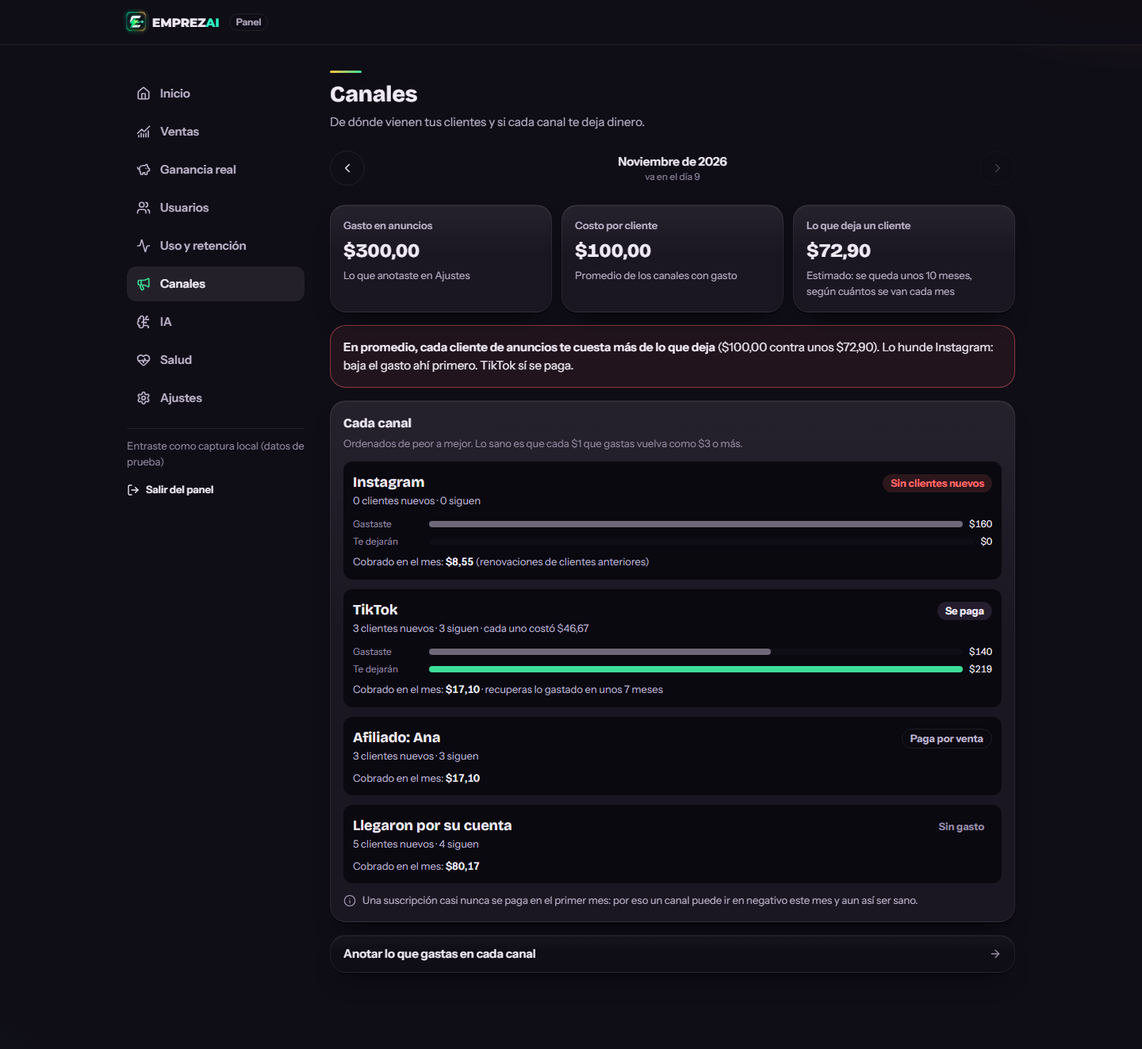
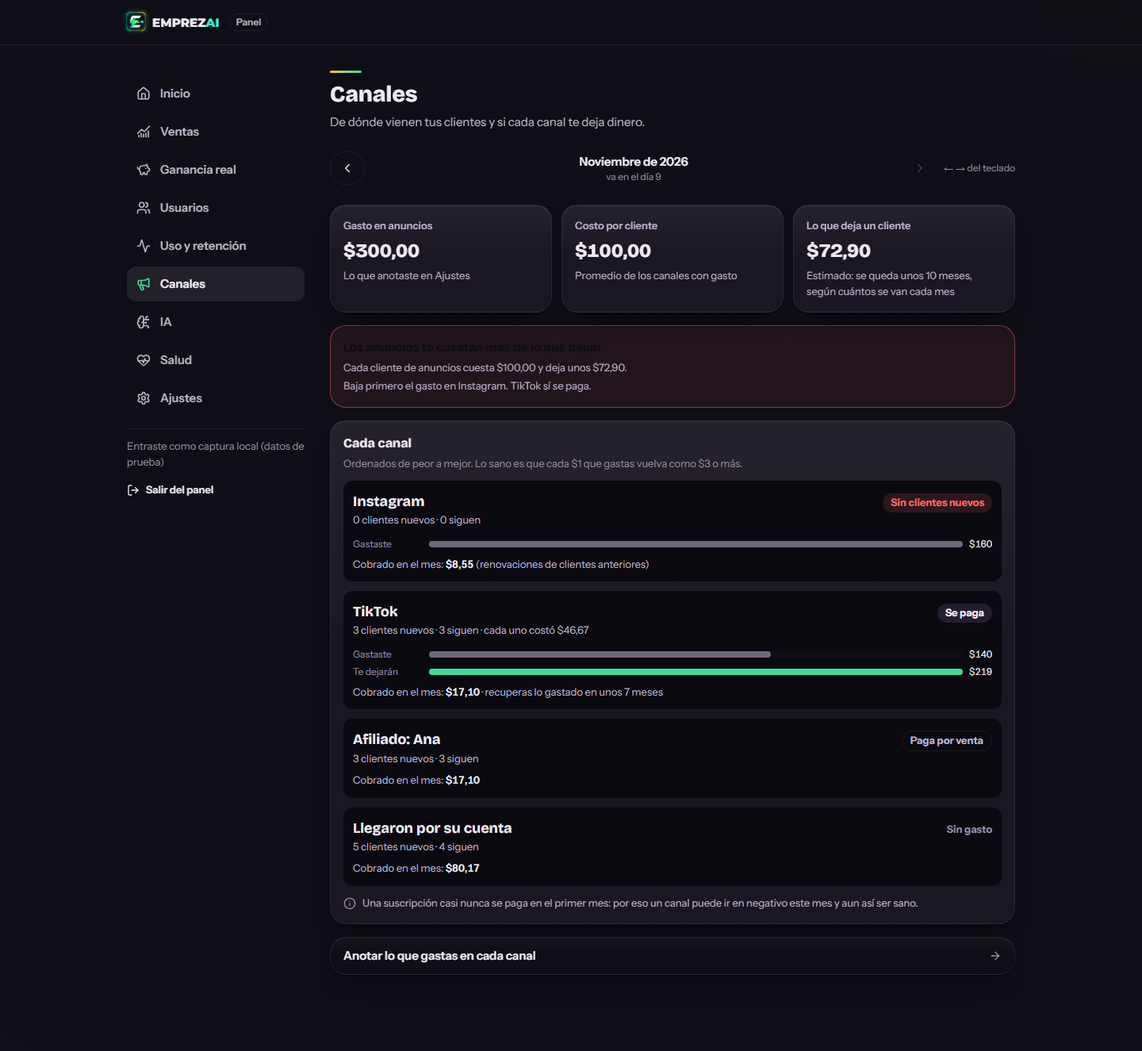
fix(panel): ronda 7 — orden como selector, salud sin doble conteo, enlaces tocables de 44px, avisos y textos más cortos

diff --git a/app/admin/(panel)/salud/page.tsx b/app/admin/(panel)/salud/page.tsx
@@ -72,8 +72,9 @@ export default async function SaludPanel() {
   const fallidosSinAcceso = fallidos.filter((w) => w.email && !w.con_acceso).length;
   const sinAccesoTotal = s.pagaron_sin_acceso + fallidosSinAcceso;
   const razones = [
-    sinAccesoTotal > 0 && `${sinAccesoTotal} ${sinAccesoTotal === 1 ? 'pagó y no tiene' : 'pagaron y no tienen'} acceso`,
-    fallosHotmart7d > 0 && `${fallosHotmart7d} ${fallosHotmart7d === 1 ? 'aviso de pago no se aplicó' : 'avisos de pago no se aplicaron'}`,
+    sinAccesoTotal > 0 && `${sinAccesoTotal} ${sinAccesoTotal === 1 ? 'pagó y no tiene' : 'pagaron y no tienen'} acceso${fallidosSinAcceso > 0 ? ' (por un aviso de pago que falló)' : ''}`,
+    // Un aviso fallido que dejó a alguien sin acceso ya está contado arriba: no se cuenta dos veces.
+    fallosHotmart7d - fallidosSinAcceso > 0 && `${fallosHotmart7d - fallidosSinAcceso} ${fallosHotmart7d - fallidosSinAcceso === 1 ? 'aviso de pago no se aplicó' : 'avisos de pago no se aplicaron'}`,
     s.vencidos_sin_aviso > 0 && `${s.vencidos_sin_aviso} accesos vencieron sin aviso`,
     repetidos.length > 0 && `${repetidos.length} ${repetidos.length === 1 ? 'error se repite' : 'errores se repiten'}`,
   ].filter(Boolean) as string[];
@@ -81,7 +82,7 @@ export default async function SaludPanel() {
   // Bloques en orden de impacto: si hay pagos que no se aplicaron, Hotmart va antes que los errores.
   const bloqueHotmart = (
     <Tarjeta className="mb-4" indice={fallosHotmart7d > 0 ? 6 : 7}>
-      <TituloTarjeta ayuda="Cada compra, renovación, cancelación o reembolso llega como un aviso de Hotmart.">Avisos de pago de Hotmart</TituloTarjeta>
+      <TituloTarjeta ayuda="Cada compra, renovación, cancelación o reembolso llega como un aviso de Hotmart. Si uno falla, Hotmart lo reenvía y la app reintenta dar el acceso cada día.">Avisos de pago de Hotmart</TituloTarjeta>
       {totalWebhook === 0 ? (
         <SinDatos porque="Aparecen cuando conectes Hotmart y entre el primer aviso." />
       ) : (
@@ -140,7 +141,7 @@ export default async function SaludPanel() {
           )}
           {fallosHotmart7d > 0 && (
             <p className="mt-2 text-caption text-ink-2">
-              <strong className="font-semibold text-ink-1">Qué hacer:</strong> la app vuelve a intentarlo sola. Si mañana sigue “Todavía sin acceso”, dáselo tú aquí.
+              <strong className="font-semibold text-ink-1">Qué hacer:</strong> si mañana sigue “Todavía sin acceso”, dáselo tú aquí.
             </p>
           )}
         </>
@@ -217,8 +218,16 @@ export default async function SaludPanel() {
           <Dato
             etiqueta="Pagos fallidos"
             numero={fallosHotmart7d}
-            tono={fallosHotmart7d > 0 ? 'mal' : 'bien'}
-            detalle={fallidos[0] ? `El último falló el ${fechaHora(fallidos[0].en)}` : s.webhook_ultimo ? `Todos bien · el último, ${fechaHora(s.webhook_ultimo)}` : 'Hotmart todavía no envió avisos'}
+            tono={fallosHotmart7d - fallidosSinAcceso > 0 ? 'mal' : fallosHotmart7d > 0 ? 'neutro' : 'bien'}
+            detalle={
+              fallosHotmart7d > 0 && fallosHotmart7d === fallidosSinAcceso
+                ? 'Es la misma compra de al lado'
+                : fallidos[0]
+                  ? `El último falló el ${fechaHora(fallidos[0].en)}`
+                  : s.webhook_ultimo
+                    ? `Todos bien · el último, ${fechaHora(s.webhook_ultimo)}`
+                    : 'Hotmart todavía no envió avisos'
+            }
           />
         </Tarjeta>
         <Tarjeta indice={4}>
@@ -238,7 +247,7 @@ export default async function SaludPanel() {
           />
         </Tarjeta>
         <Tarjeta indice={5}>
-          <Dato etiqueta="Errores (7 días)" numero={erroresSemana} tono={repetidos.length > 0 ? 'mal' : 'neutro'} detalle={s.errores_7d_anterior !== undefined ? `La semana pasada: ${entero(s.errores_7d_anterior)}` : `${entero(s.errores_hoy)} hoy`} />
+          <Dato etiqueta="Errores (7 días)" numero={erroresSemana} tono={repetidos.length > 0 ? 'mal' : 'neutro'} detalle={s.errores_7d_anterior !== undefined ? `${entero(s.errores_hoy)} hoy · la semana pasada: ${entero(s.errores_7d_anterior)}` : `${entero(s.errores_hoy)} hoy`} />
         </Tarjeta>
       </div>
 

diff --git a/app/admin/(panel)/ventas/page.tsx b/app/admin/(panel)/ventas/page.tsx
@@ -3,7 +3,8 @@
 // cobros. Dinero separado por moneda; con flechas para ver otros meses.
 
 import Link from 'next/link';
-import { Barra, Dato, Encabezado, Lectura, SelectorMes, SinDatos, Tarjeta, TituloTarjeta, Variacion } from '@/components/admin/ui';
+import { ArrowRight } from 'lucide-react';
+import { Barra, Dato, Encabezado, Lectura, SelectorMes, SinDatos, TOCABLE, Tarjeta, TituloTarjeta, Variacion } from '@/components/admin/ui';
 import { Cuenta } from '@/components/admin/movimiento';
 import { ChipFiltro } from '@/components/admin/ChipFiltro';
 import { dinero, dineroMinor, entero, fechaHora, mesCorto, variacion } from '@/lib/panel-formato';
@@ -32,7 +33,7 @@ export default async function VentasPanel({ searchParams }: { searchParams: Prom
     leerVentas(periodo.comparar, 'ventas_mes_anterior'),
     leerClientes(),
     leerPruebasSinPago(periodo),
-    leerCobrosDelMes(periodo, 50),
+    leerCobrosDelMes(periodo, 300),
     leerConteosUsuarios(''),
     leerSerie(6),
     leerAjustes(),
@@ -89,7 +90,7 @@ export default async function VentasPanel({ searchParams }: { searchParams: Prom
               return (
                 <li key={m.mes} className="grid grid-cols-[2.5rem_1fr_auto] items-center gap-2 text-xs">
                   <span className={elegido ? 'font-semibold text-ink-1' : 'text-ink-3'}>{mesCorto(m.mes)}</span>
-                  <Barra pct={(m.ingresos / maxMes) * 100} tono={elegido ? 'clara' : 'neutra'} indice={i} />
+                  <Barra pct={(m.ingresos / maxMes) * 100} tono="neutra" indice={i} />
                   <span className={`whitespace-nowrap tabular-nums ${elegido ? 'font-semibold text-ink-1' : 'text-ink-2'}`}>{dinero(m.ingresos, 0)}</span>
                 </li>
               );
@@ -105,7 +106,7 @@ export default async function VentasPanel({ searchParams }: { searchParams: Prom
             numero={pagando > 0 ? mrr : null}
             formato="dinero"
             decimales={2}
-            detalle={pagando > 0 ? `Lo que suman al mes tus ${entero(pagando)} clientes (${entero(clientes.activos_mensual)} mensual · ${entero(clientes.activos_anual)} anual)` : 'Aparece con el primer cliente pagando'}
+            detalle={pagando > 0 ? `${entero(clientes.activos_mensual)} mensual · ${entero(clientes.activos_anual)} anual` : 'Aparece con el primer cliente pagando'}
           />
         </Tarjeta>
         <Tarjeta indice={3}>
@@ -167,12 +168,15 @@ export default async function VentasPanel({ searchParams }: { searchParams: Prom
             </ul>
           )}
           {sinAcceso > 0 && (
+            <>
             <Lectura>
-              {entero(sinAcceso)} ya no tienen acceso: pruebas que terminaron sin pagar, cancelaciones o reembolsos.{' '}
-              <Link href="/admin/usuarios?estado=inactivo" className="font-semibold text-ink-1 underline underline-offset-4">
-                Verlos
-              </Link>
+              {entero(sinAcceso)} ya no tienen acceso: pruebas que terminaron sin pagar, cancelaciones o reembolsos.
             </Lectura>
+            <Link href="/admin/usuarios?estado=inactivo" className={`${TOCABLE} mt-1 flex min-h-11 items-center gap-1 pl-6 text-caption font-semibold text-ink-1 underline underline-offset-4`}>
+              Ver a los {entero(sinAcceso)} sin acceso
+              <ArrowRight size={14} aria-hidden="true" />
+            </Link>
+            </>
           )}
         </Tarjeta>
       </div>
@@ -232,7 +236,7 @@ export default async function VentasPanel({ searchParams }: { searchParams: Prom
                 </ul>
               </details>
             )}
-            {cobros.length >= 50 && <p className="mt-2 text-xs text-ink-3">Se muestran los 50 más recientes del mes.</p>}
+            {cobros.length >= 300 && <p className="mt-2 text-xs text-ink-3">Se muestran los 300 más recientes del mes.</p>}
           </>
         )}
         {clientes.manuales > 0 && (

diff --git a/app/admin/(panel)/canales/page.tsx b/app/admin/(panel)/canales/page.tsx
@@ -72,9 +72,14 @@ export default async function CanalesPanel({ searchParams }: { searchParams: Pro
       </div>
       {pierde && cacGeneral !== null && vida && (
         <div role="status" className="mb-4 rounded-[var(--radius-card)] border border-[color-mix(in_oklab,var(--danger)_45%,transparent)] bg-[color-mix(in_oklab,var(--danger)_8%,transparent)] p-4 text-ayuda text-ink-1">
-          <strong className="font-semibold">En promedio, cada cliente de anuncios te cuesta más de lo que deja</strong> ({dinero(cacGeneral)} contra unos {dinero(vida.ltv)}).
-          {perdedores.length > 0 && ` Lo hunde ${perdedores.map((f) => nombreCanal(f.canal)).join(' y ')}: baja el gasto ahí primero.`}
-          {ganadores.length > 0 && ` ${ganadores.map((f) => nombreCanal(f.canal)).join(' y ')} sí se ${ganadores.length === 1 ? 'paga' : 'pagan'}.`}
+          <strong className="block font-display text-base font-bold">Los anuncios te cuestan más de lo que dejan</strong>
+          <span className="mt-1 block text-caption text-ink-2">Cada cliente de anuncios cuesta {dinero(cacGeneral)} y deja unos {dinero(vida.ltv)}.</span>
+          {(perdedores.length > 0 || ganadores.length > 0) && (
+            <span className="mt-1 block text-caption text-ink-2">
+              {perdedores.length > 0 && `Baja primero el gasto en ${perdedores.map((f) => nombreCanal(f.canal)).join(' y ')}.`}
+              {ganadores.length > 0 && ` ${ganadores.map((f) => nombreCanal(f.canal)).join(' y ')} sí se ${ganadores.length === 1 ? 'paga' : 'pagan'}.`}
+            </span>
+          )}
         </div>
       )}
 
@@ -91,7 +96,7 @@ export default async function CanalesPanel({ searchParams }: { searchParams: Pro
                 <Entrada indice={i + 5} className="rounded-[var(--radius-chip)] bg-sunken p-3">
                   <div className="flex flex-wrap items-baseline justify-between gap-x-3">
                     <span className="font-display text-lg font-bold break-words text-ink-1">{nombreCanal(f.canal)}</span>
-                    <span className={`rounded-[var(--radius-pill)] px-2.5 py-0.5 text-caption font-bold ${f.v.fondo} ${f.v.tono}`}>{f.v.texto}</span>
+                    <span className={`rounded-[var(--radius-pill)] py-0.5 text-caption font-bold ${f.v.fondo ? `px-2.5 ${f.v.fondo}` : ''} ${f.v.tono}`}>{f.v.texto}</span>
                   </div>
                   <p className="text-caption text-ink-2">
                     {entero(f.clientes)} {f.clientes === 1 ? 'cliente nuevo' : 'clientes nuevos'} · {entero(f.siguen)} siguen
@@ -107,7 +112,7 @@ export default async function CanalesPanel({ searchParams }: { searchParams: Pro
                         </span>
                         <span className="whitespace-nowrap tabular-nums text-ink-1">{dinero(f.gasto_usd, 0)}</span>
                       </div>
-                      {f.valor !== null && (
+                      {f.valor !== null && f.valor > 0 && (
                         <div className="grid grid-cols-[5.5rem_1fr_auto] items-center gap-2 text-xs">
                           <span className="text-ink-3">Te dejarán</span>
                           <span className="block h-2 rounded-full bg-base">

diff --git a/components/admin/FormulariosAjustes.tsx b/components/admin/FormulariosAjustes.tsx
@@ -164,7 +164,7 @@ export function ListaCostos({ costos }: { costos: CostoFijo[] }) {
           </p>
         </>
       ) : (
-        <p className="text-caption text-ink-3">Aún no anotaste costos fijos.</p>
+        <p className="text-caption text-ink-2">Anota lo que pagas cada mes por servidores, dominio y correos: se resta de tu ganancia real.</p>
       )}
       {q.quitado ? <BarraDeshacer texto={`Quitado: ${q.quitado.nombre}`} onDeshacer={q.deshacer} pendiente={q.pendiente} /> : <Aviso r={q.r} />}
 
@@ -195,6 +195,8 @@ export function ListaGastos({ gastos, canales, desde, hasta }: { gastos: GastoCa
   const q = useQuitarConDeshacer<GastoCanal>(borrarGasto, (g) => agregarGasto(null, formDe({ canal: g.canal, monto: g.monto_usd, desde: g.desde, hasta: g.hasta, nota: g.nota })));
   const [elegido, setElegido] = useState(canales[0] ?? 'otro');
   const [inicio, setInicio] = useState(desde);
+  // Sugerencia: lo que gastó la última vez en el canal elegido.
+  const anterior = gastos.find((g) => g.canal === elegido)?.monto_usd ?? null;
   // Agrupados por mes (por la fecha de inicio), del más reciente al más antiguo.
   const totalMes = (fecha: string) => visibles.filter((x) => mesDe(x.desde) === mesDe(fecha)).reduce((t, x) => t + x.monto_usd, 0);
   const mesDe = (fecha: string) => new Intl.DateTimeFormat('es', { month: 'long', year: 'numeric', timeZone: 'UTC' }).format(new Date(`${fecha}T12:00:00Z`));
@@ -228,7 +230,7 @@ export function ListaGastos({ gastos, canales, desde, hasta }: { gastos: GastoCa
           ))}
         </ul>
       ) : (
-        <p className="text-caption text-ink-3">Aún no anotaste gastos en anuncios.</p>
+        <p className="text-caption text-ink-2">Anota lo que gastas en anuncios por canal: así Canales te dice cuál deja dinero.</p>
       )}
       {q.quitado ? <BarraDeshacer texto={`Quitado: gasto de ${nombreCanal(q.quitado.canal)}`} onDeshacer={q.deshacer} pendiente={q.pendiente} /> : <Aviso r={q.r} />}
 
@@ -258,7 +260,7 @@ export function ListaGastos({ gastos, canales, desde, hasta }: { gastos: GastoCa
         )}
         <label className="flex flex-col gap-1">
           <span className={ETIQUETA}>Cuánto gastaste (USD)</span>
-          <input name="monto" type="number" min={0} step="0.01" required inputMode="decimal" placeholder="Ej.: 150" className={CAMPO} />
+          <input name="monto" type="number" min={0} step="0.01" required inputMode="decimal" placeholder={anterior ? `La última vez: ${dinero(anterior)}` : 'Ej.: 150'} className={CAMPO} />
         </label>
         <label className="flex flex-col gap-1">
           <span className={ETIQUETA}>Desde</span>

diff --git a/app/admin/(panel)/ia/page.tsx b/app/admin/(panel)/ia/page.tsx
@@ -70,7 +70,7 @@ export default async function IaPanel({ searchParams }: { searchParams: Promise<
             numero={porUsuario}
             formato="dinero"
             decimales={3}
-            detalle={porUsuario !== null ? (pagaUno ? `De unos ${dinero(pagaUno)} que paga cada uno al mes (${pct((porUsuario / pagaUno) * 100, 1)})` : `${entero(ia.usuarios_con_ia)} clientes · sin contar la pieza gratis`) : 'Aún ningún cliente la usó'}
+            detalle={porUsuario !== null ? (pagaUno ? `${pct((porUsuario / pagaUno) * 100, 1)} de lo que paga uno` : `${entero(ia.usuarios_con_ia)} clientes`) : 'Aún ningún cliente la usó'}
           />
         </Tarjeta>
         <Tarjeta indice={3}>
@@ -115,7 +115,7 @@ export default async function IaPanel({ searchParams }: { searchParams: Promise<
 
       {ia.por_dia && ia.por_dia.some((d) => d.usd > 0) && (
         <Tarjeta className="mb-4" indice={5}>
-          <TituloTarjeta ayuda={`La línea punteada es tu promedio; la barra clara, hoy.${hayDisparados ? ' En ámbar, los días que gastaron más del doble: mira abajo quién la usó más.' : ''}`}>Gasto día por día</TituloTarjeta>
+          <TituloTarjeta ayuda={`Punteada: tu promedio · verde: hoy${hayDisparados ? ' · ámbar: más del doble' : ''}.`}>Gasto día por día</TituloTarjeta>
           <p className="mb-2 text-caption text-ink-2">
             Promedio <strong className="font-semibold text-ink-1 tabular-nums">{dinero(promedioDia, 2)}</strong> por día
             {diaMasCaro && (
@@ -161,9 +161,9 @@ export default async function IaPanel({ searchParams }: { searchParams: Promise<
                 {ia.top_usuarios.map((u, i) => {
                   const alto = sospechosos.includes(u);
                   return (
-                    <li key={`${u.email}-${i}`} className="flex justify-between gap-3 text-caption">
+                    <li key={`${u.email}-${i}`} className="flex items-center justify-between gap-3 text-caption">
                       {u.id ? (
-                        <Link href={`/admin/usuarios/${u.id}`} className={`min-w-0 truncate underline-offset-4 hover:underline ${alto ? 'font-semibold text-warning' : 'text-ink-1'}`}>
+                        <Link href={`/admin/usuarios/${u.id}`} className={`flex min-h-11 min-w-0 items-center truncate underline underline-offset-4 ${alto ? 'font-semibold text-warning' : 'text-ink-1'}`}>
                           {u.email}
                         </Link>
                       ) : (

diff --git a/components/admin/ui.tsx b/components/admin/ui.tsx
@@ -35,6 +35,7 @@ export function SelectorMes({ periodo, ruta }: { periodo: PeriodoElegido; ruta: 
         {periodo.etiqueta}
         {periodo.diaDeHoy && <span className="block text-xs font-normal text-ink-3">va en el día {periodo.diaDeHoy}</span>}
       </span>
+      <span className="sr-only lg:not-sr-only lg:order-last lg:text-xs lg:text-ink-3">← → del teclado</span>
       {periodo.siguiente ? (
         <FlechaMes href={periodo.esActual ? ruta : `${ruta}?mes=${periodo.siguiente}`} etiqueta="Mes siguiente">
           <ChevronRight size={18} aria-hidden="true" />
@@ -227,8 +228,8 @@ export function BannerAvisos({ avisos, periodo }: { avisos: Aviso[]; periodo: st
           </Entrada>
         );
   };
-  const primeros = avisos.slice(0, 2);
-  const resto = avisos.slice(2);
+  const primeros = avisos.slice(0, 1);
+  const resto = avisos.slice(1);
   return (
     <section aria-label="Avisos" className="mb-6 flex flex-col gap-3">
       {primeros.map(tarjeta)}
@@ -249,8 +250,11 @@ export function BannerAvisos({ avisos, periodo }: { avisos: Aviso[]; periodo: st
 export function FilaMonto({ concepto, monto, nota, total = false, color, apagada = false, href }: { concepto: string; monto: string; nota?: string; total?: boolean; color?: string; apagada?: boolean; href?: string }) {
   if (href) {
     return (
-      <Link href={href} className={`${TOCABLE} group -mx-2 block rounded-[var(--radius-chip)] px-2 hover:bg-raised-2`}>
-        <FilaMonto concepto={concepto} monto={monto} nota={nota} total={total} color={color} apagada={apagada} />
+      <Link href={href} className={`${TOCABLE} group flex items-center gap-1 hover:bg-[color-mix(in_oklab,var(--ink-1)_4%,transparent)]`}>
+        <span className="min-w-0 flex-1">
+          <FilaMonto concepto={concepto} monto={monto} nota={nota} total={total} color={color} apagada={apagada} />
+        </span>
+        <ChevronRight size={14} className="shrink-0 text-ink-3 transition-transform group-hover:translate-x-0.5" aria-hidden="true" />
       </Link>
     );
   }

diff --git a/app/admin/(panel)/usuarios/page.tsx b/app/admin/(panel)/usuarios/page.tsx
@@ -7,6 +7,7 @@ import { ChevronDown, ChevronLeft, ChevronRight, UserPlus } from 'lucide-react';
 import { BuscadorUsuarios } from '@/components/admin/BuscadorUsuarios';
 import { FormAgregarUsuario } from '@/components/admin/AccionesUsuario';
 import { ChipFiltro, EnlaceCarga } from '@/components/admin/ChipFiltro';
+import { SelectorOrden } from '@/components/admin/OrdenUsuarios';
 import { estadoVisible } from '@/components/admin/estados';
 import { Entrada } from '@/components/admin/movimiento';
 import { Encabezado, SinDatos, TOCABLE, Tarjeta, TituloTarjeta } from '@/components/admin/ui';
@@ -92,14 +93,11 @@ export default async function UsuariosPanel({ searchParams }: { searchParams: Pr
       </Tarjeta>
 
       <Tarjeta className="mb-4" indice={2}>
-        <nav aria-label="Ordenar la lista" className="mb-2 flex flex-wrap items-center gap-2">
-          <span className="text-xs text-ink-3">Ordenar:</span>
-          {ORDENES_USUARIOS.map((o) => (
-            <ChipFiltro key={o} href={enlace({ orden: o === 'recientes' ? undefined : o })} activo={orden === o}>
-              {ETIQUETA_ORDEN[o]}
-            </ChipFiltro>
-          ))}
-        </nav>
+        <SelectorOrden
+          actual={orden}
+          opciones={ORDENES_USUARIOS.map((o) => ({ valor: o, texto: ETIQUETA_ORDEN[o] }))}
+          urls={Object.fromEntries(ORDENES_USUARIOS.map((o) => [o, enlace({ orden: o === 'recientes' ? undefined : o })]))}
+        />
         {filas.length === 0 ? (
           <SinDatos porque={buscar || estado !== 'todos' ? 'Nadie coincide con este filtro. Prueba con otra búsqueda.' : 'Todavía no hay usuarios. Aparecen con la primera prueba gratis o si das acceso a alguien con el botón de arriba.'} />
         ) : (

diff --git a/app/admin/(panel)/ganancia/page.tsx b/app/admin/(panel)/ganancia/page.tsx
@@ -90,7 +90,7 @@ export default async function GananciaPanel({ searchParams }: { searchParams: Pr
       </Tarjeta>
 
       <Tarjeta className="mb-4" indice={2}>
-        <TituloTarjeta ayuda="En dólares. Todo es real, salvo lo marcado como estimado.">La cuenta, paso a paso</TituloTarjeta>
+        <TituloTarjeta ayuda="Todo es real, salvo lo estimado.">La cuenta, paso a paso</TituloTarjeta>
         <div className="divide-y divide-[var(--line)]">
           <FilaMonto concepto="Facturaste" monto={dinero(g.bruto)} nota={g.ventas > 0 ? `${entero(g.ventas)} ${g.ventas === 1 ? 'cobro' : 'cobros'} de Hotmart` : 'Sin cobros todavía'} />
           {g.devuelto >= 0.005 && <FilaMonto concepto="Devoluciones" color={COLOR.devuelto} monto={monto(g.devuelto)} href={`/admin/ventas?mes=${periodo.param}&tipo=devoluciones`} />}
@@ -112,9 +112,9 @@ export default async function GananciaPanel({ searchParams }: { searchParams: Pr
             apagada={g.fijos < 0.005}
             href="/admin/ajustes"
           />
+          {g.devuelto < 0.005 && g.afiliados < 0.005 && <p className="py-2 text-xs text-ink-3">Sin devoluciones ni afiliados este mes.</p>}
           <FilaMonto total concepto="Te quedaron limpios" monto={dinero(g.ganancia)} color={COLOR.queda} />
         </div>
-        {g.devuelto < 0.005 && g.afiliados < 0.005 && <p className="mt-2 text-xs text-ink-3">Sin devoluciones ni afiliados este mes.</p>}
         {g.otrasMonedas.length > 0 && <p className="mt-2 text-caption text-ink-3">Las ventas en {g.otrasMonedas.join(', ')} no están en esta cuenta: no se suman sin un tipo de cambio con fuente.</p>}
       </Tarjeta>
 

diff --git a/components/admin/OrdenUsuarios.tsx b/components/admin/OrdenUsuarios.tsx
@@ -1,0 +1,33 @@
+'use client';
+
+// Orden de la lista de Usuarios: un selector (distinto de los chips de filtro, que eligen QUIÉNES se
+// ven; esto elige en qué ORDEN). Muestra "Ordenando…" mientras llega la lista.
+
+import { useTransition } from 'react';
+import { useRouter } from 'next/navigation';
+import { ArrowDownUp, LoaderCircle } from 'lucide-react';
+
+export function SelectorOrden({ actual, opciones, urls }: { actual: string; opciones: { valor: string; texto: string }[]; urls: Record<string, string> }) {
+  const router = useRouter();
+  const [ordenando, iniciar] = useTransition();
+  return (
+    <label className="mb-2 flex items-center justify-end gap-2 text-caption text-ink-2">
+      {ordenando ? <LoaderCircle size={14} className="motion-safe:animate-spin" aria-hidden="true" /> : <ArrowDownUp size={14} aria-hidden="true" />}
+      <span className="sr-only">Ordenar la lista por</span>
+      <select
+        value={actual}
+        onChange={(e) => {
+          const url = urls[e.target.value];
+          if (url) iniciar(() => router.push(url));
+        }}
+        className="min-h-11 rounded-[var(--radius-chip)] border-0 bg-transparent pr-1 text-caption font-semibold text-ink-1 focus:outline-2 focus:outline-ink-2"
+      >
+        {opciones.map((o) => (
+          <option key={o.valor} value={o.valor}>
+            {o.texto}
+          </option>
+        ))}
+      </select>
+    </label>
+  );
+}

diff --git a/app/admin/(panel)/page.tsx b/app/admin/(panel)/page.tsx
@@ -107,7 +107,7 @@ export default async function InicioPanel({ searchParams }: { searchParams: Prom
       <div className="mb-4 grid grid-cols-2 gap-3 lg:grid-cols-4">
         <Tarjeta indice={3} href="/admin/usuarios?estado=activo">
           <Dato
-            etiqueta="Clientes activos"
+            etiqueta="Con acceso hoy"
             numero={clientes.total > 0 ? activos : null}
             detalle={clientes.total > 0 ? `${entero(pagando)} pagando · ${entero(clientes.en_prueba)} en prueba` : 'Aún nadie compró'}
           />
@@ -118,7 +118,7 @@ export default async function InicioPanel({ searchParams }: { searchParams: Prom
             numero={pagando > 0 ? mrr : null}
             formato="dinero"
             decimales={2}
-            detalle={pagando > 0 ? `Lo que suman al mes tus ${entero(pagando)} clientes (el plan anual cuenta su parte de cada mes)` : 'Aparece con el primer cliente pagando'}
+            detalle={pagando > 0 ? `Pagan tus ${entero(pagando)} clientes` : 'Aparece con el primer cliente pagando'}
           />
         </Tarjeta>
         <Tarjeta indice={5} href={`/admin/ia?mes=${periodo.param}`}>

diff --git a/components/admin/Graficos.tsx b/components/admin/Graficos.tsx
@@ -74,7 +74,7 @@ export function GraficoGastoDia({ datos }: { datos: { fecha: string; usd: number
           <ReferenceLine y={promedio} stroke="var(--ink-3)" strokeDasharray="3 3" />
           <Bar dataKey="usd" radius={[3, 3, 0, 0]} isAnimationActive={!reduce} animationDuration={600}>
             {datos.map((d) => (
-              <Cell key={d.fecha} fill={d.usd > promedio * 2 && promedio > 0 ? 'var(--warning)' : d.fecha === hoy ? 'var(--ink-2)' : 'color-mix(in oklab, var(--ink-2) 60%, transparent)'} />
+              <Cell key={d.fecha} fill={d.usd > promedio * 2 && promedio > 0 ? 'var(--warning)' : d.fecha === hoy ? 'var(--green)' : 'color-mix(in oklab, var(--ink-2) 60%, transparent)'} />
             ))}
           </Bar>
         </BarChart>

diff --git a/app/admin/(panel)/error.tsx b/app/admin/(panel)/error.tsx
@@ -18,7 +18,7 @@ export default function ErrorPanel({ error, reset }: { error: Error & { digest?:
 
   return (
     <div role="alert" className="tarjeta-relieve rounded-[var(--radius-card)] p-6 text-center">
-      <h1 className="font-display text-2xl font-extrabold text-ink-1">No pudimos cargar estos números</h1>
+      <h1 className="font-display text-2xl font-extrabold text-ink-1">No pudimos cargar esta sección</h1>
       <p className="mx-auto mt-2 max-w-sm text-ayuda text-ink-2">
         Puede ser un corte de conexión con la base de datos. Tus datos están a salvo: vuelve a intentarlo en un momento.
       </p>
